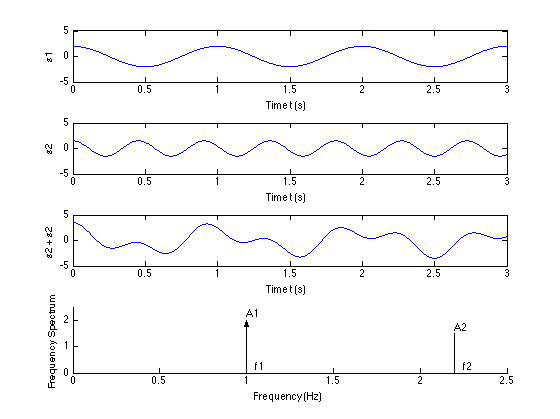
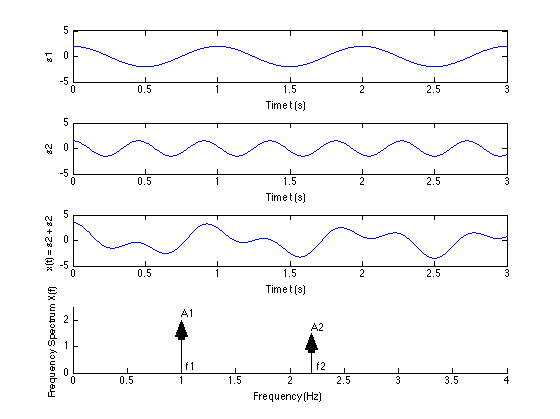
Completed First Draft

diff --git a/introduction/matlab/two_sines.m b/introduction/matlab/two_sines.m
@@ -9,8 +9,9 @@ plot(t,s1),ylim([-5,5]),xlabel('Time t (s) '),ylabel('s1')
 subplot(4,1,2)
 plot(t,s2),ylim([-5,5]),xlabel('Time t (s) '),ylabel('s2')
 subplot(4,1,3)
-plot(t,s1+s2),ylim([-5,5]),xlabel('Time t (s) '),ylabel('s2 + s2')
+plot(t,s1+s2),ylim([-5,5]),xlabel('Time t (s) '),ylabel('x(t) = s2 + s2')
 subplot(4,1,4)
+axis([0,4,0,2.5])
 arrow([f1,0],[f1,A1]),text(f1,A1+0.2,'A1'),text(f1+0.05,0.2,'f1')
 arrow([f2,0],[f2,A2]),text(f2,A2+0.2,'A2'),text(f2+0.05,0.2,'f2')
-axis([0,2.5,0,2.5]),ylabel('Frequency Spectrum'),xlabel('Frequency (Hz)')
+ylabel('Frequency Spectrum X(f)'),xlabel('Frequency (Hz)')
